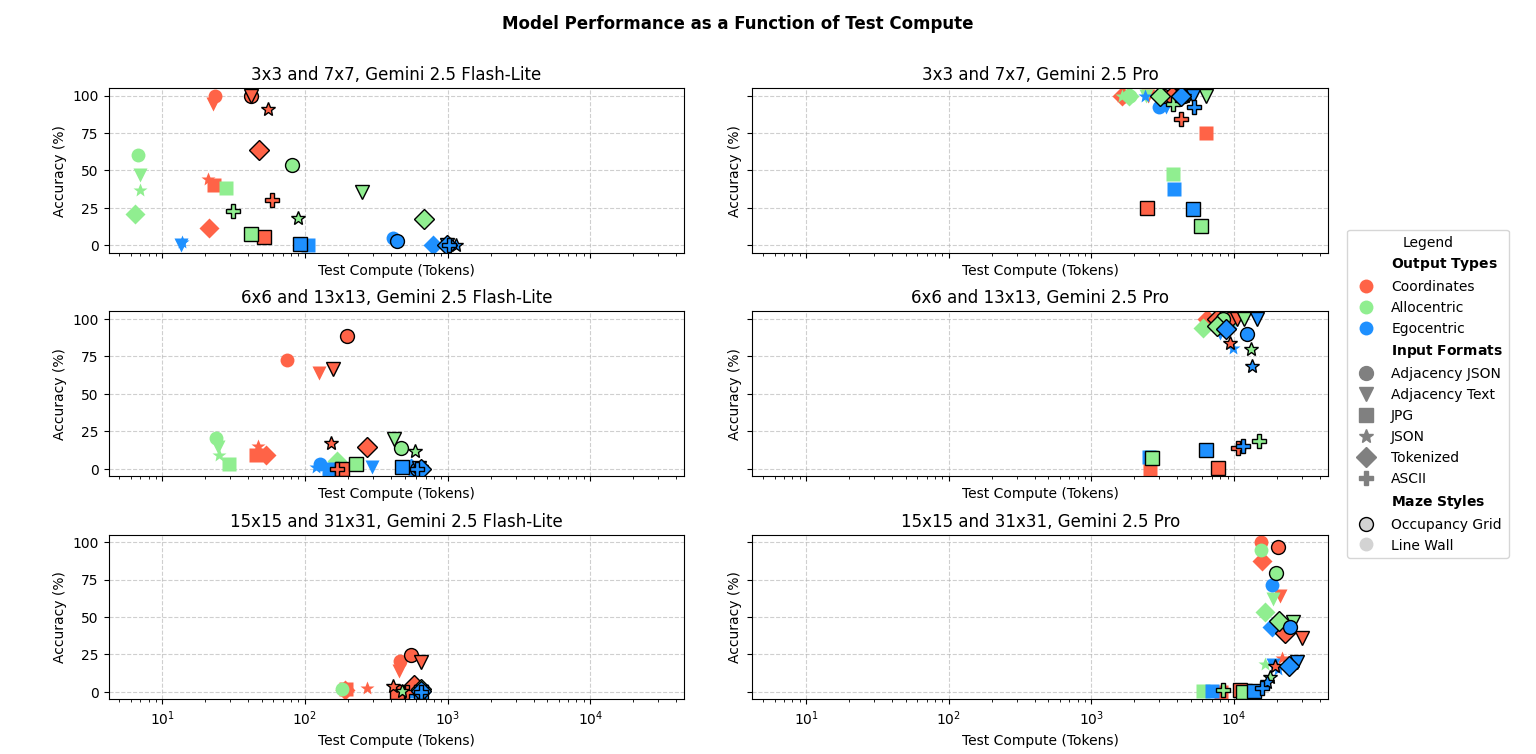
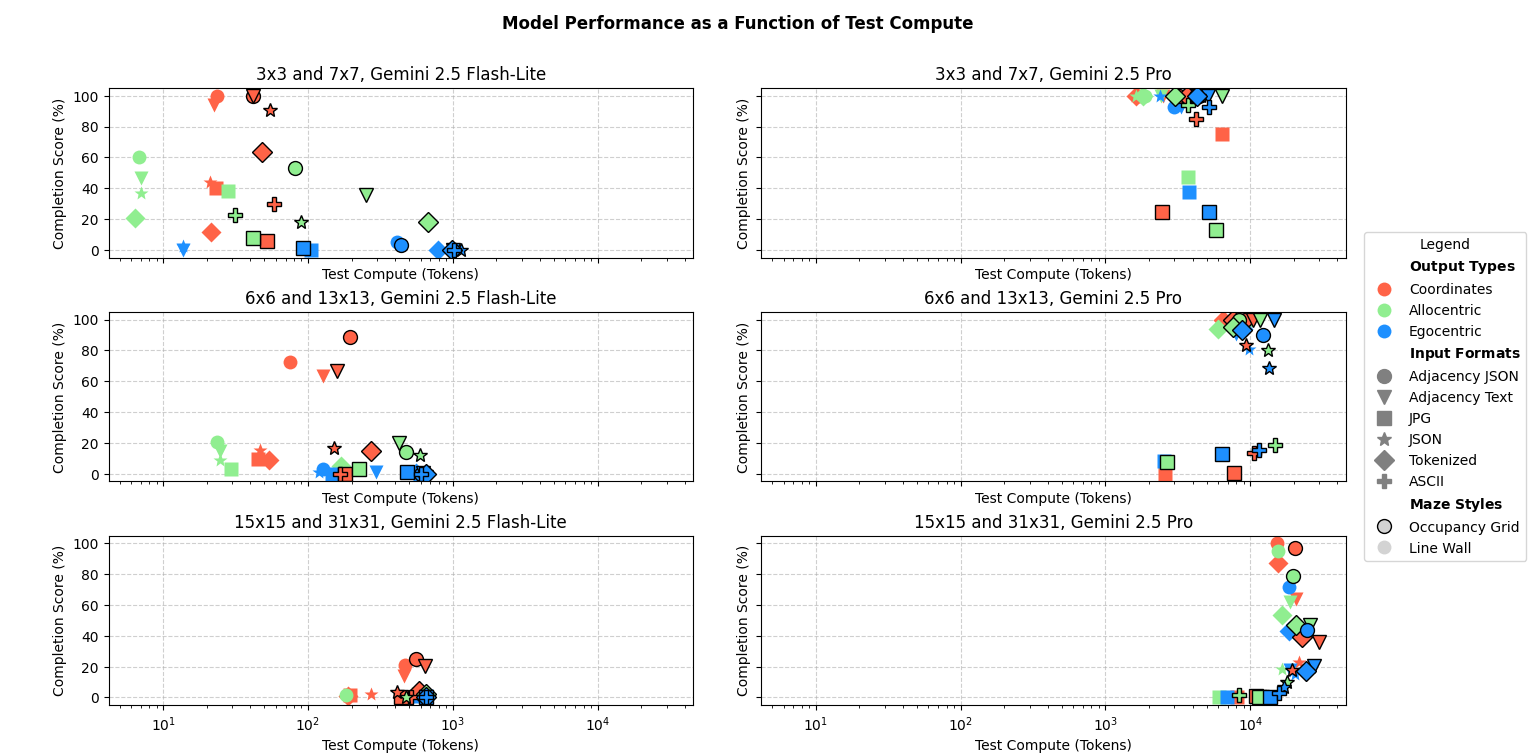
changed 'accuracy' to 'completion score' in charts

diff --git a/Charts_Dataset03/charts_Dataset03.py b/Charts_Dataset03/charts_Dataset03.py
@@ -1397,7 +1397,7 @@ for idx, ax in enumerate(axes.flat):
     ax.grid(axis='y', linestyle='--', alpha=0.5)
     
     if idx % 3 == 0:
-        ax.set_ylabel("Accuracy (%)")
+        ax.set_ylabel("Completion Score (%)")
     
 
 
@@ -1408,7 +1408,7 @@ for idx, ax in enumerate(axes.flat):
 
 
 
-plt.suptitle("Accuracy", x=0.9*0.5, fontweight='bold')
+plt.suptitle("Completion Score", x=0.9*0.5, fontweight='bold')
 # Position the legend within that white space
 # legend=fig.legend(
 #     handles_for_legend, 

diff --git a/Charts_Dataset03/acc_token_output_Dataset03.py b/Charts_Dataset03/acc_token_output_Dataset03.py
@@ -1349,7 +1349,7 @@ for i in range(0,3):
     for j in range(0,2):
         axes[i,j].set_xscale('log')  # Set x-axis to logarithmic scale
         axes[i,j].grid(True, linestyle='--', alpha=0.6)
-        axes[i,j].set_ylabel("Accuracy (%)")
+        axes[i,j].set_ylabel("Completion Score (%)")
         axes[i,j].set_xlabel("Test Compute (Tokens)")
 
 
